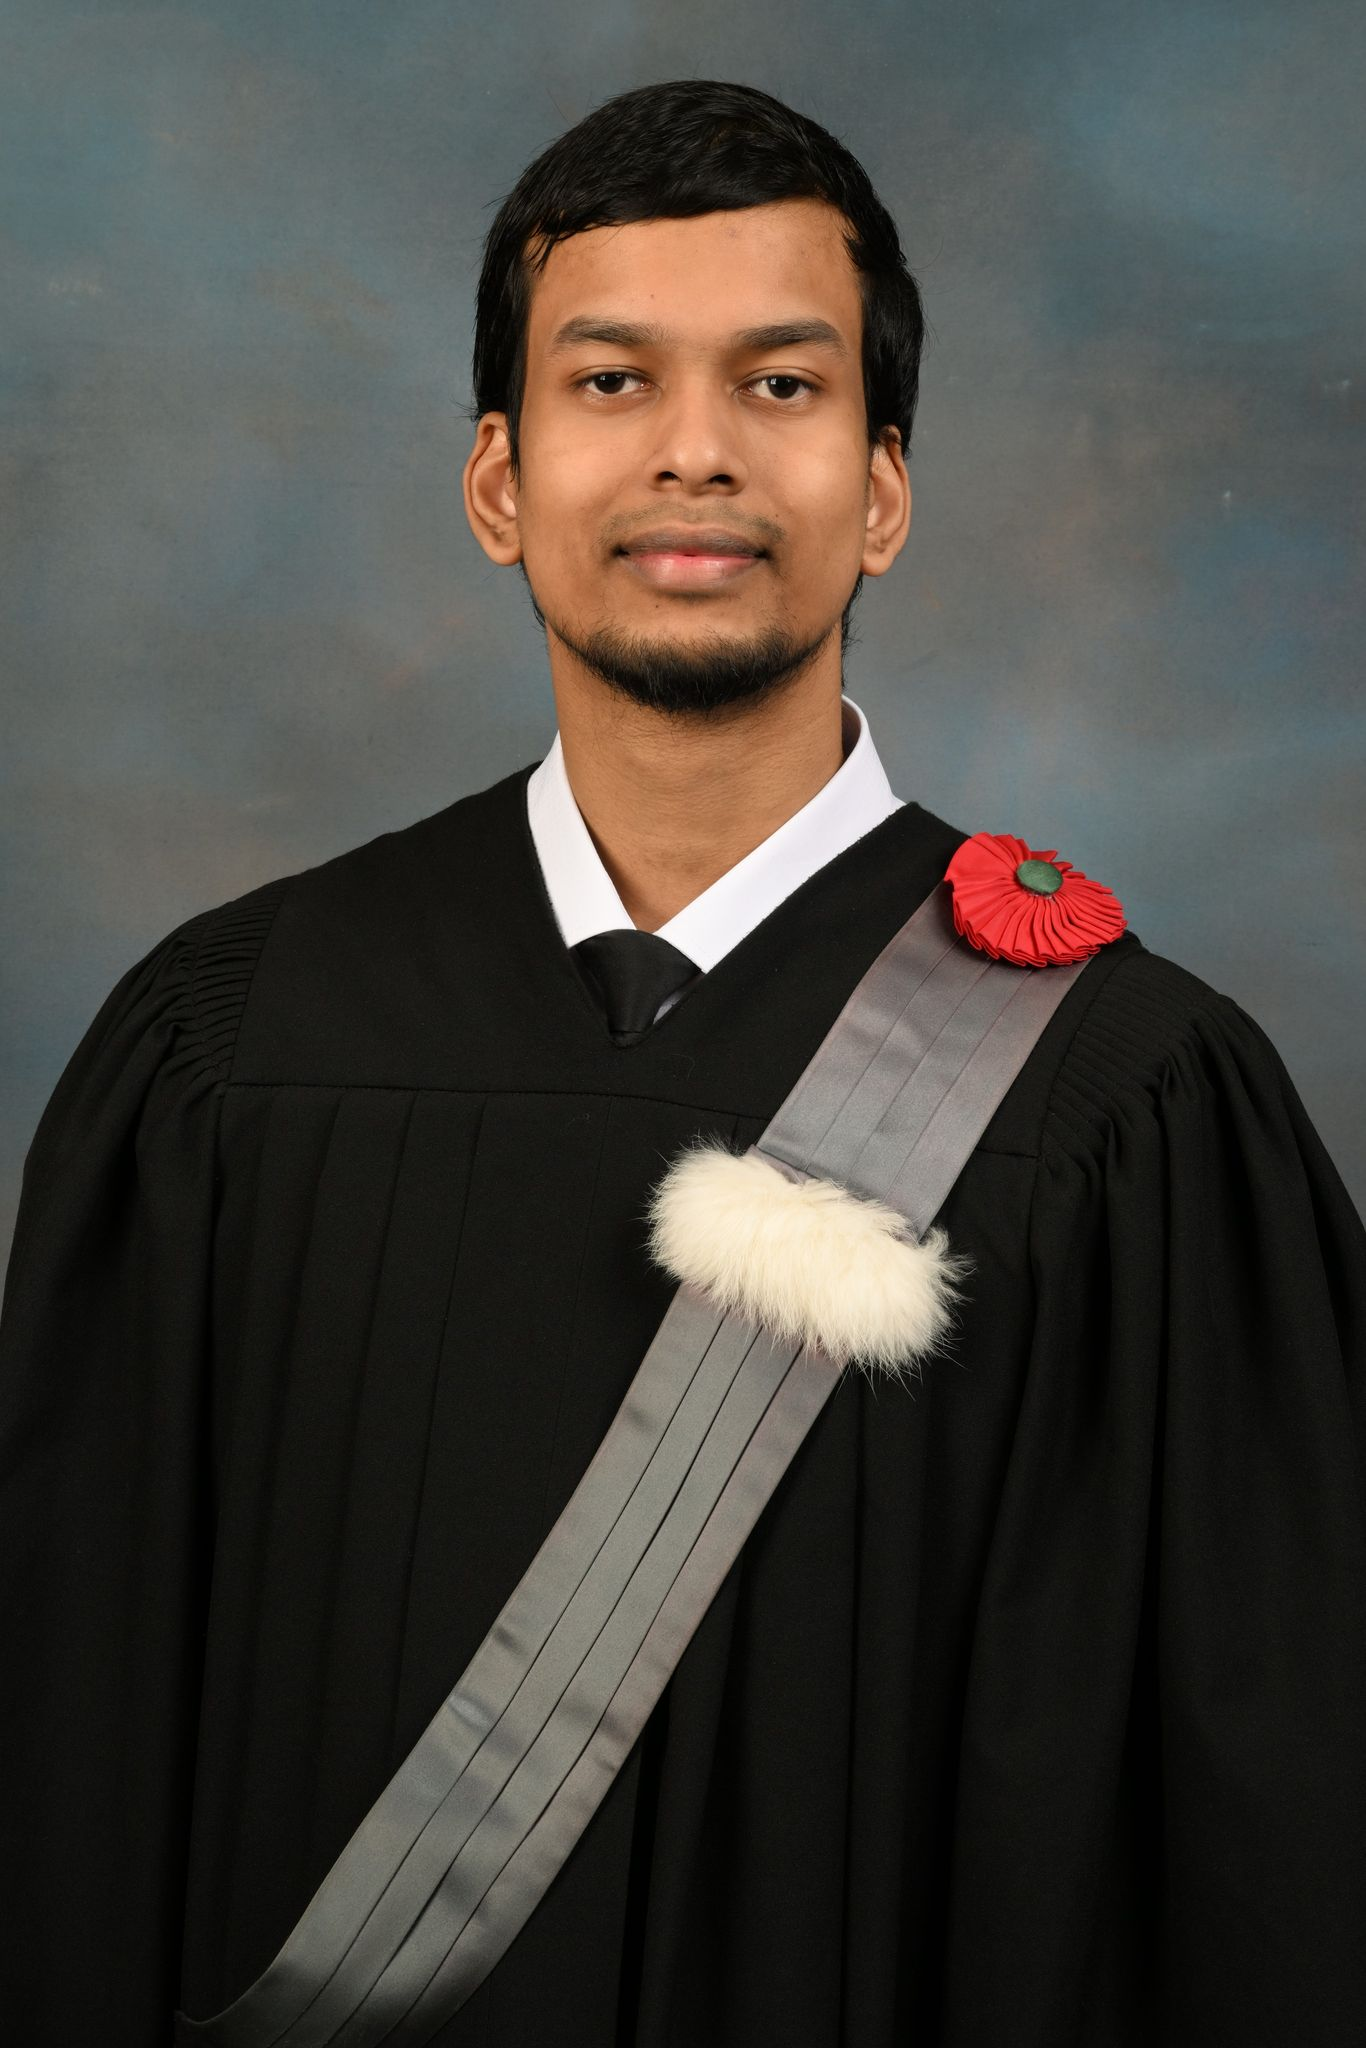
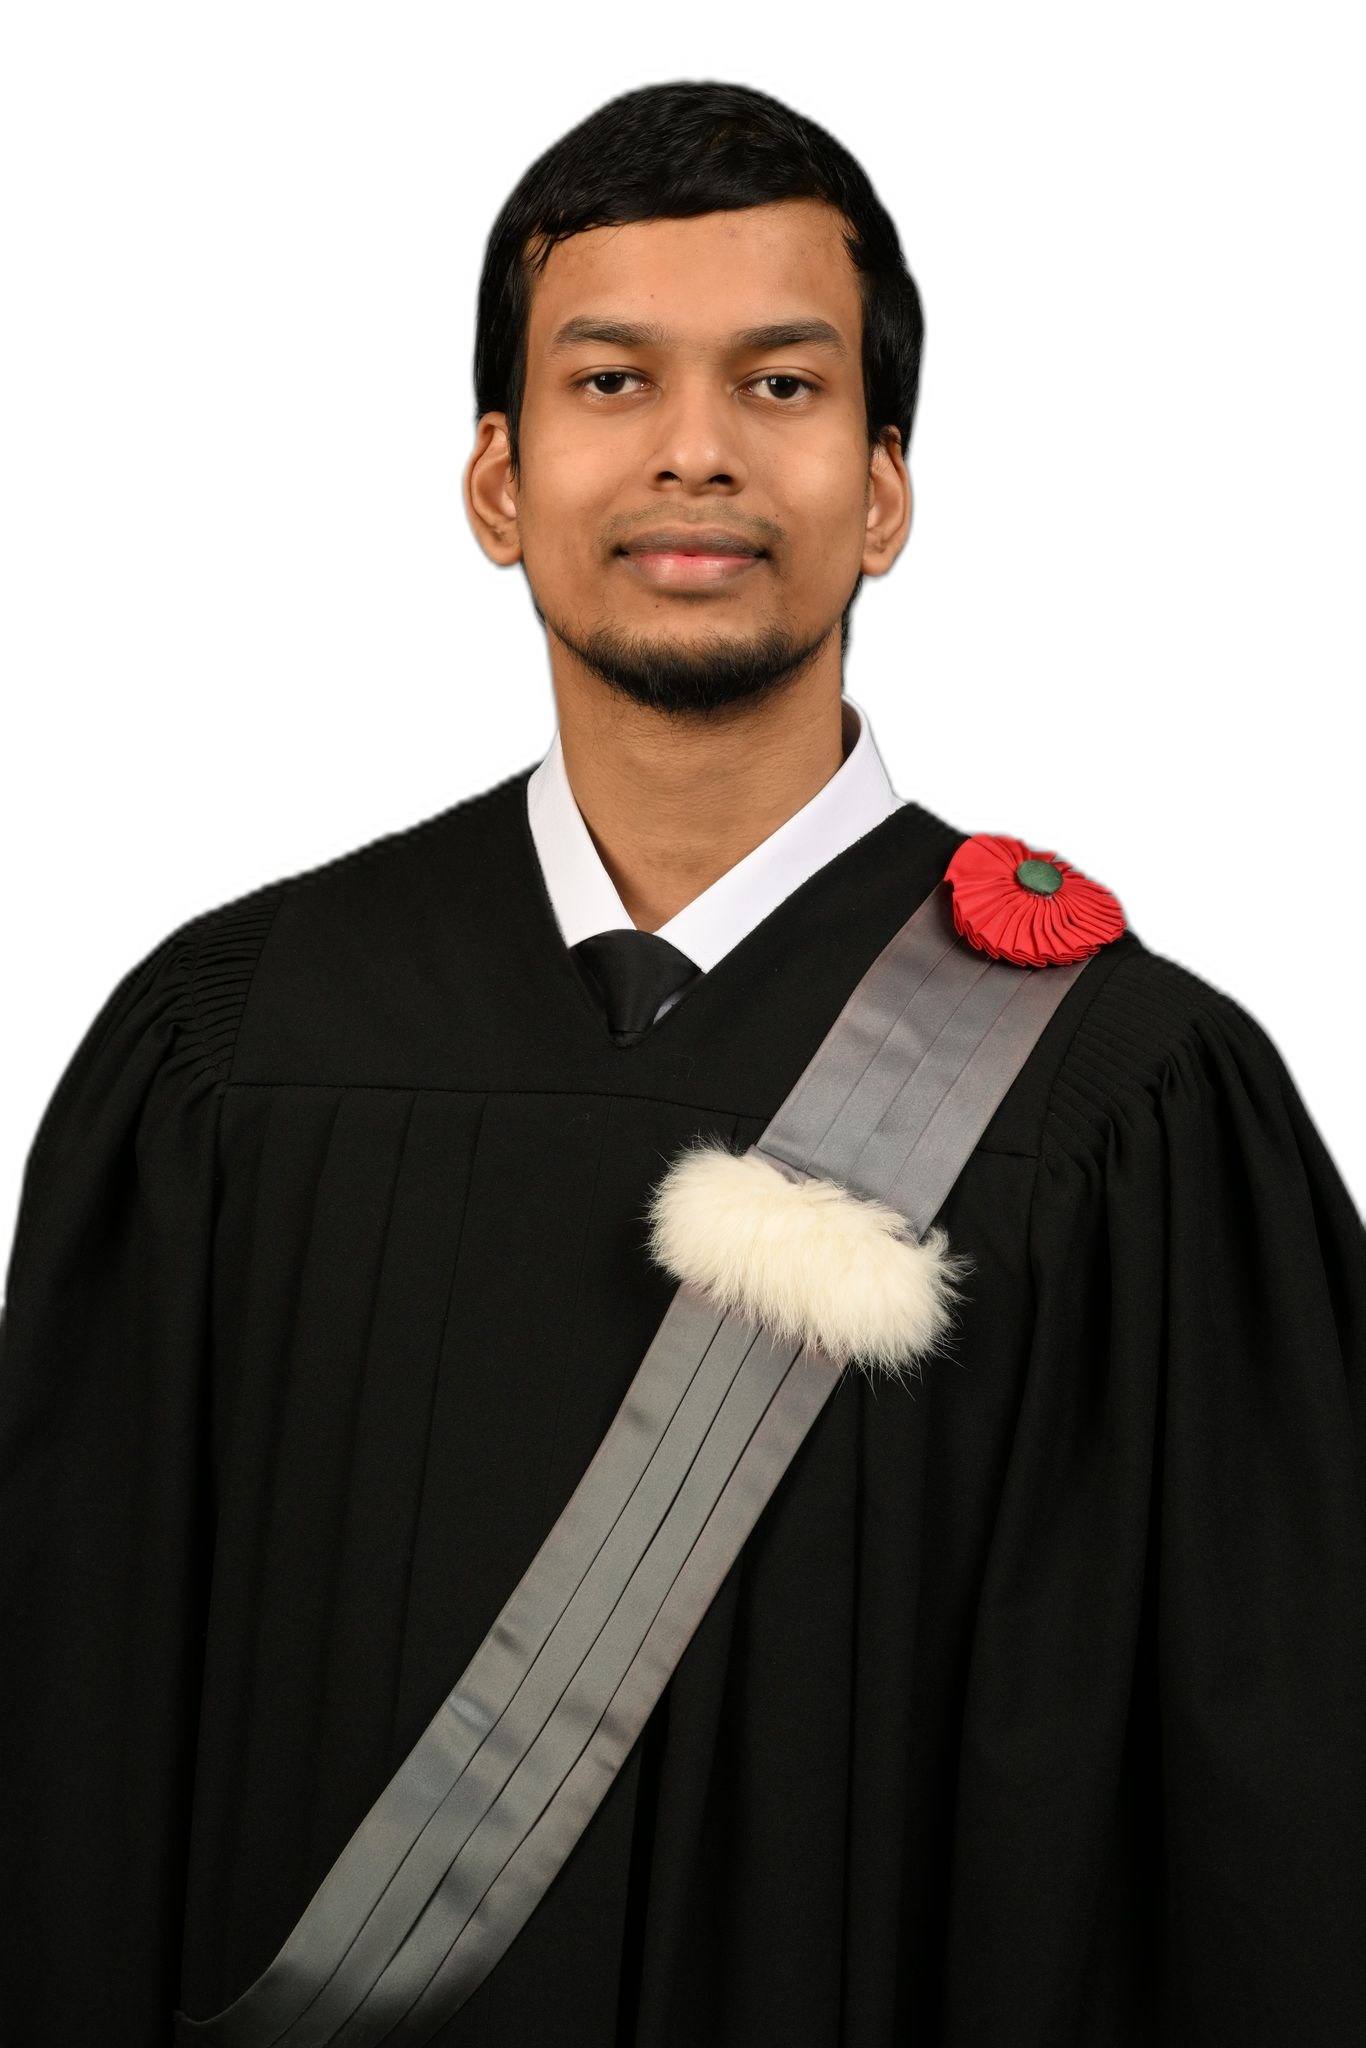
adding social media and background

diff --git a/app/about/page.tsx b/app/about/page.tsx
@@ -1,12 +1,51 @@
+'use client';
+
 import Link from 'next/link'
 import Options from '@/components/Options'
+import { link } from 'fs';
 
 export default function Home() {
-  return (<>
-  <Options/>
-  <h1>Name</h1>
-  <p>My name is Labib, I graduated with a bachelors from Polytechnique de Montreal in software engineering. I am presently a full-stack developper.</p>
-  <img src = "/images/grad.jpeg" ></img>
-  </>
-  )
+
+        const handleClick = () => {
+          alert("HAHAHAHA");
+        };
+        const instagram = () =>{
+            window.open("https://www.instagram.com/bashirchou", "_blank");
+        }
+        const linkedIn = () =>{
+            window.open("https://www.linkedin.com/in/labib-bashir-choudhury/", "_blank");
+            
+        }
+        const github = () => {
+            window.open(" https://github.com/bashirchou", "_blank");
+           
+        }
+      
+        return (
+          <div className="flex justify-center items-center h-screen" style={{
+            background: `url("/images/background2.gif")`,
+            height: '100vh', // Adjust the height as per your requirements
+            width: '100%', // Adjust the width as per your requirements
+            backgroundSize: 'cover',
+            backgroundRepeat: 'no-repeat',
+            backgroundPosition: 'center',
+          }}>
+            <div className="flex flex-col items-center">
+              <img src="/images/grad.jpeg" width="300" height="300" alt="Graduation" />
+              <div className="mt-4 flex space-x-4">
+                <button className="bg-blue-500 hover:bg-green-700 text-white font-bold py-2 px-4 rounded mt-2">
+                  About Me
+                </button>
+                <button onClick={handleClick} className="bg-blue-500 hover:bg-green-700 text-white font-bold py-2 px-4 rounded mt-2">
+                 Projects
+                </button>
+              </div>
+              <div className="mt-2 flex space-x-0.01"> 
+               <img  src = "/images/instagram.png" onClick= {instagram} width = "60" height = "50"></img>
+               <img src = "/images/linkedin.png" onClick = {linkedIn} width = "50" height = "50"></img>
+               <img src = "/images/github.png" onClick = {github} width = "50" height = "50"></img>
+              </div>
+            </div>
+          </div>
+        );
 }

diff --git a/app/page.tsx b/app/page.tsx
@@ -1,6 +1,6 @@
 import Image from 'next/image'
 
-export default function Home() {
+export default function HomePage() {
   return (
     <main className="flex min-h-screen flex-col items-center justify-between p-24">
       <div className="z-10 w-full max-w-5xl items-center justify-between font-mono text-sm lg:flex">
